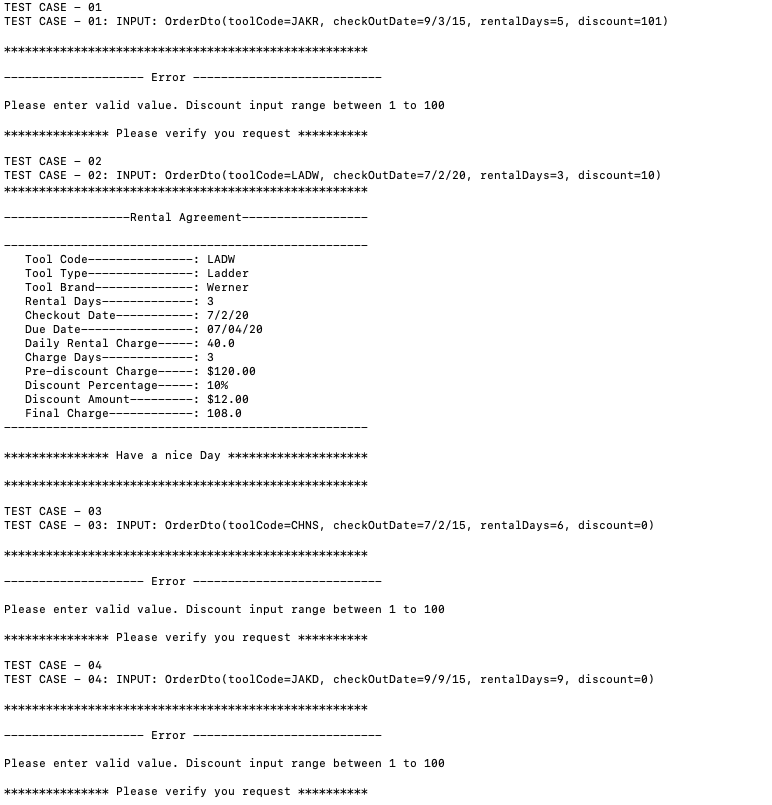
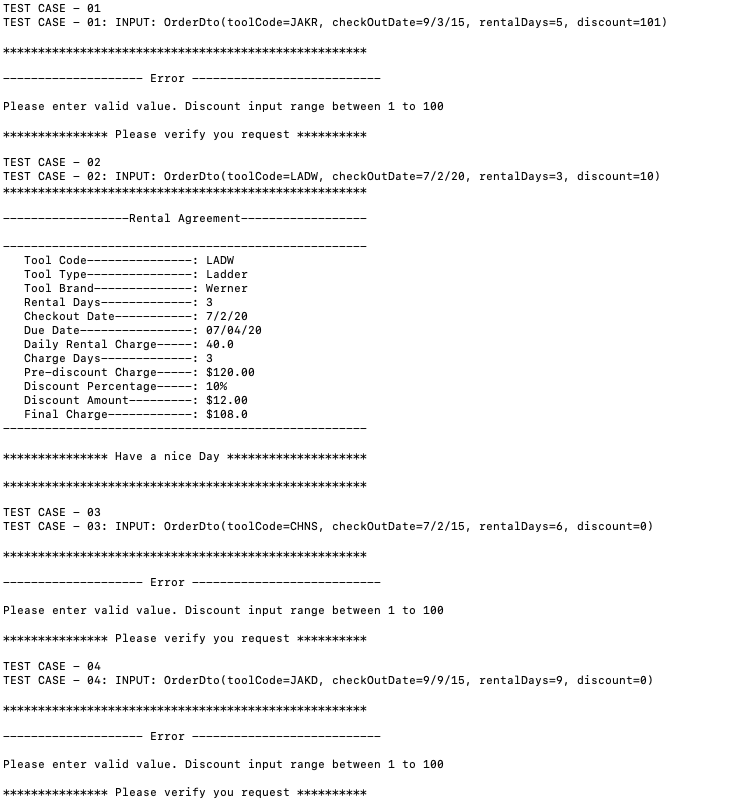
Screenshot updated

Changed region(s): [[0.0, 0.559, 0.8703, 0.9938], [0.0, 0.0, 0.9014, 0.2795], [0.0311, 0.3106, 0.3419, 0.528]]

diff --git a/src/main/java/com/tools/rental/order/RentalAgreementDto.java b/src/main/java/com/tools/rental/order/RentalAgreementDto.java
@@ -89,7 +89,7 @@ public class RentalAgreementDto {
                 "   Pre-discount Charge-----: " + ToolsRentalHelper.roundHalfUpAndUSCurrencyFormat(preDiscountCharge) + "\n" +
                 "   Discount Percentage-----: " + discountPercent + "%" + "\n" +
                 "   Discount Amount---------: " + ToolsRentalHelper.roundHalfUpAndUSCurrencyFormat(discountAmount) + "\n" +
-                "   Final Charge------------: " + finalCharge + "\n" +
+                "   Final Charge------------: $" + finalCharge + "\n" +
                 "----------------------------------------------------\n";
     }
 
